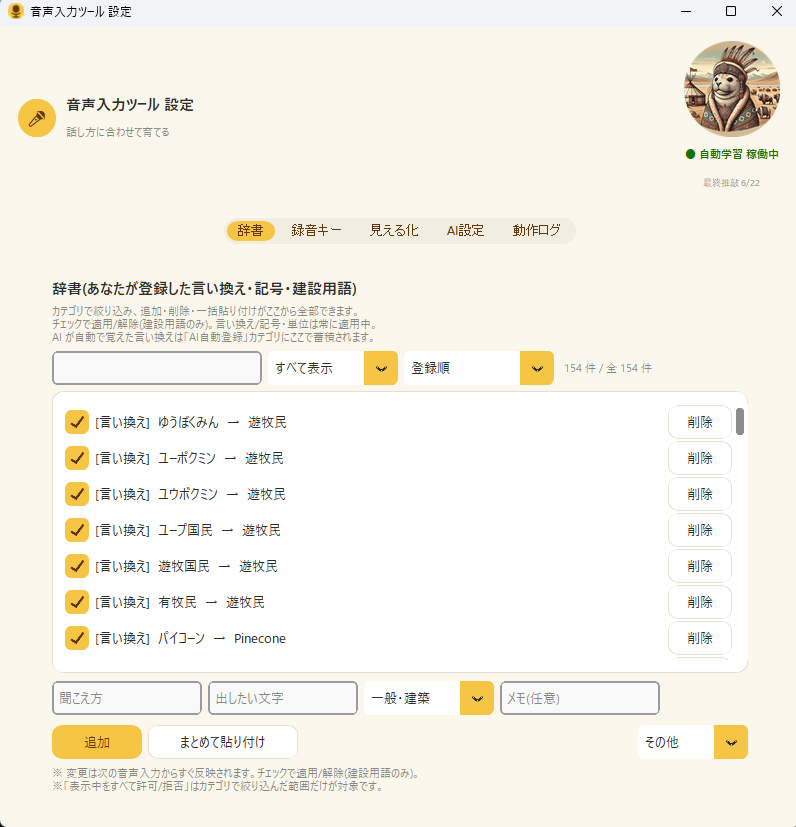
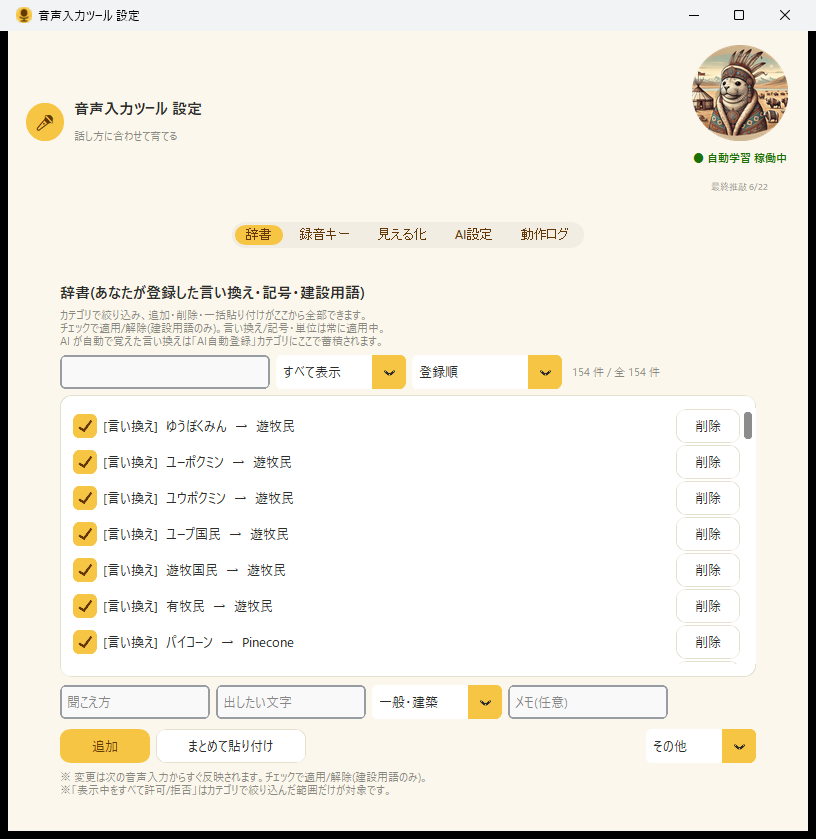
feat(lp): 実画面3枚を別タブに差し替え+声の波形セクション追加+Vercel用ルート配信化
- 実画面を辞書/録音キー/見える化の3タブに差し替え
- framer-motionで声の波形ビジュアライザ(VoiceWave)を#liveセクションに追加
- next.config.mjsのbasePath/assetPrefixを撤去しルート配信化(Vercel移行)

diff --git a/components/ui/VoiceWave.tsx b/components/ui/VoiceWave.tsx
@@ -1,0 +1,59 @@
+"use client";
+import { motion } from "framer-motion";
+
+/**
+ * 声の波形ビジュアライザ（21st.dev ElevenLabs/waveform 系を参考に framer-motion で実装）。
+ * 起動キーを押して「聞いている」状態を、リアルタイム波形で表現する。
+ */
+const BARS = 56;
+
+// SSR とクライアントで一致する決定的な基準高さ（中央が高い波形 + 疑似ゆらぎ）
+const base = Array.from({ length: BARS }, (_, i) => {
+  const center = 1 - Math.abs(i - (BARS - 1) / 2) / ((BARS - 1) / 2); // 0..1（中央で1）
+  const wobble = (Math.sin(i * 1.7) + Math.sin(i * 0.6) + 2) / 4; // 0..1
+  return 0.22 + center * 0.5 + wobble * 0.28; // 0.22..1.0
+});
+
+export function VoiceWave() {
+  return (
+    <div className="w-full">
+      <div className="inline-flex items-center gap-2 mb-6 px-3 py-1.5 rounded-full bg-coral/10 border border-coral/30">
+        <motion.span
+          className="w-2 h-2 rounded-full bg-coral"
+          animate={{ opacity: [1, 0.25, 1], scale: [1, 0.8, 1] }}
+          transition={{ duration: 1.1, repeat: Infinity, ease: "easeInOut" }}
+        />
+        <span className="text-sm font-bold text-coral-dark">聞いています</span>
+      </div>
+
+      <div
+        className="flex items-center justify-center gap-[3px] md:gap-[4px] h-[140px] md:h-[180px]"
+        aria-hidden="true"
+      >
+        {base.map((h, i) => (
+          <motion.span
+            key={i}
+            className="w-[3px] md:w-[5px] rounded-full"
+            style={{ background: "linear-gradient(to top, #0d7e87 0%, #28bdb8 45%, #ffc857 100%)" }}
+            initial={{ height: `${h * 38}%` }}
+            animate={{
+              height: [
+                `${h * 38}%`,
+                `${Math.min(h * 100, 100)}%`,
+                `${h * 28}%`,
+                `${Math.min(h * 78, 96)}%`,
+                `${h * 38}%`,
+              ],
+            }}
+            transition={{
+              duration: 1.3 + (i % 6) * 0.14,
+              repeat: Infinity,
+              ease: "easeInOut",
+              delay: (i % 9) * 0.07,
+            }}
+          />
+        ))}
+      </div>
+    </div>
+  );
+}

diff --git a/app/page.tsx b/app/page.tsx
@@ -3,6 +3,7 @@ import dynamic from "next/dynamic";
 import { useEffect } from "react";
 import { LiquidGlassCard } from "@/components/ui/LiquidGlassCard";
 import { GlassButton } from "@/components/ui/GlassButton";
+import { VoiceWave } from "@/components/ui/VoiceWave";
 
 const ScrollScene = dynamic(() => import("@/components/ScrollScene"), { ssr: false });
 
@@ -109,6 +110,22 @@ export default function Home() {
                 <p className="text-ink-soft leading-relaxed">{d}</p>
               </LiquidGlassCard>
             ))}
+          </div>
+        </div>
+      </section>
+
+      {/* ===== Voice waveform ===== */}
+      <section id="live" className="relative py-[clamp(5rem,3rem+8vw,10rem)] overflow-hidden">
+        <div className="mx-auto w-[min(100%-2rem,900px)] text-center">
+          <span className="eyebrow text-lagoon-600 reveal">Live</span>
+          <h2 className="display-1 text-[clamp(1.9rem,1.4rem+2.4vw,3.2rem)] mt-2 mb-3 reveal">押している間、<br />耳をすませている。</h2>
+          <p className="text-ink-soft leading-relaxed max-w-[44ch] mx-auto mb-10 reveal">
+            起動キーを押すと、ローカルLLMがあなたの声をリアルタイムに受け止め、整った文章へ変えていきます。
+          </p>
+          <div className="reveal">
+            <LiquidGlassCard className="!bg-white/60 px-6 py-10 md:px-12 md:py-12">
+              <VoiceWave />
+            </LiquidGlassCard>
           </div>
         </div>
       </section>
